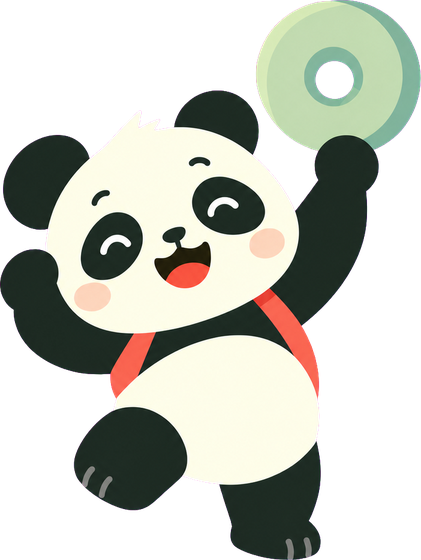
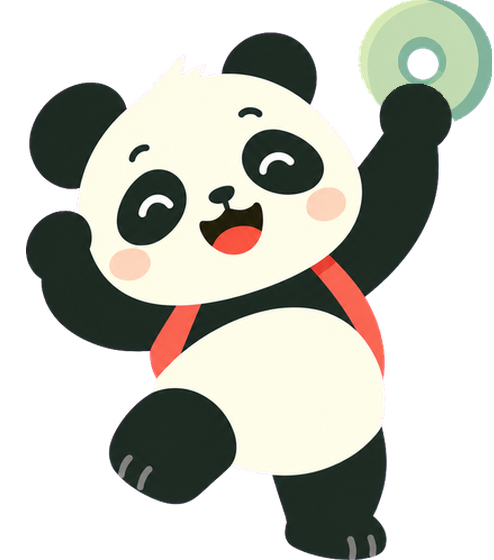
Profile: a lost streak reads 0 days, no lantern button; Flawless's panda sized up to match

diff --git a/native/Bubu/Views/Profile.swift b/native/Bubu/Views/Profile.swift
@@ -31,12 +31,6 @@ struct ProfileView: View {
                 you(lv)
                 invite(lv)
                 overview(out: out)
-                if out != nil {
-                    Button(progress.embers < 1 ? "No spare lanterns left" : "Use a spare lantern") {
-                        if let o = out { Moments.shared.show(.askRelight(lost: o.lost, embers: progress.embers)) }
-                    }
-                    .buttonStyle(WideButton()).disabled(progress.embers < 1)
-                }
                 achievements
                 activityRow
                 Color.clear.frame(height: 90)
@@ -126,11 +120,11 @@ struct ProfileView: View {
     private func overview(out: (date: String, lost: Int)?) -> some View {
         let learned = course.cards.filter { (progress.srs[$0.id]?.reps ?? 0) >= 1 }.count
         let lit = out == nil && progress.streak > 0
-        let days = out?.lost ?? progress.streak
+        let days = progress.streak
         return VStack(alignment: .leading, spacing: 12) {
             heading("Overview")
             LazyVGrid(columns: [GridItem(.flexible(), spacing: 10, alignment: .leading), GridItem(.flexible(), alignment: .leading)], alignment: .leading, spacing: 14) {
-                stat("\(days) day\(days == 1 ? "" : "s")\(out != nil ? " (out)" : "")", icon: lit ? "chip-lantern-lit" : "chip-lantern-unlit")
+                stat(out != nil ? "Lantern out" : "\(days) day\(days == 1 ? "" : "s")", icon: lit ? "chip-lantern-lit" : "chip-lantern-unlit")
                 stat("\(progress.xpTotal.formatted()) XP", icon: "stat-xp")
                 Button { router.push(.chars) } label: { stat("\(progress.charsKnown) characters", icon: "stat-chars") }.buttonStyle(CardPress())
                 stat("\(learned) words", icon: "stat-words")

diff --git a/tools/art/fix_flawless.py b/tools/art/fix_flawless.py
@@ -1,0 +1,69 @@
+"""Flawless's panda was drawn smaller than the other badges': the jade disc above his paw took the top of the picture,
+so fitting it to 560 tall shrank him (the owner: "Flawless is smaller than the others"). This lifts the disc off, scales
+him up until he alone fills the 560, and sets the disc back behind his raised paw, lower, so it stays inside the picture.
+
+    python fix_flawless.py   (keeps the picture as it was in out/final/achv4-flawless-small.png, and works from that)
+"""
+import os
+import numpy as np
+from PIL import Image
+from scipy import ndimage
+
+HERE = os.path.dirname(os.path.abspath(__file__))
+SRC = os.path.join(HERE, "out", "final", "achv4-flawless-small.png")
+DST = os.path.join(HERE, "..", "..", "native", "Bubu", "Resources", "Achievements", "achv-flawless.png")
+DISC_SIZE = 135      # across, in the finished picture
+TUCK = 0.72          # how much of the disc's height sits above the top of his paw
+HIM = 528            # his height in the 560 (the disc takes what's left, clear of his ear)
+
+
+def main():
+    if not os.path.exists(SRC):
+        Image.open(DST).convert("RGBA").save(SRC)
+    im = Image.open(SRC).convert("RGBA")
+    a = np.asarray(im).astype(int)
+    r, g, b, al = (a[..., i] for i in range(4))
+    # the disc: its greens, joined up, the largest piece (the shadow side and rim are green too)
+    green = (al > 0) & (g > r + 8) & (g > 110)
+    lab, k = ndimage.label(ndimage.binary_closing(green, iterations=2))
+    disc = lab == (1 + int(np.argmax(ndimage.sum(green, lab, range(1, k + 1)))))
+    disc = ndimage.binary_fill_holes(disc)
+    ys, xs = np.nonzero(disc)
+    box = (int(xs.min()), int(ys.min()), int(xs.max()) + 1, int(ys.max()) + 1)
+    dark = (r + g + b) < 200
+    lift = disc & ~dark
+    # the disc alone (its hole keeps whatever the picture has there), and him alone
+    keep = np.asarray(im).copy(); keep[..., 3] = np.where(lift, keep[..., 3], 0)
+    disc_pic = Image.fromarray(keep.astype("uint8")).crop(box)
+    him = np.asarray(im).copy(); him[..., 3] = np.where(ndimage.binary_dilation(lift, iterations=2) & ~dark, 0, him[..., 3])
+    him = Image.fromarray(him.astype("uint8"))
+    lab, k = ndimage.label(np.asarray(him)[..., 3] > 30)
+    main_piece = lab == (1 + int(np.argmax(ndimage.sum(np.ones_like(lab), lab, range(1, k + 1)))))
+    arr = np.asarray(him).copy(); arr[..., 3] = np.where(main_piece, arr[..., 3], 0); him = Image.fromarray(arr)
+    hb = him.getchannel("A").point(lambda v: 255 if v > 30 else 0).getbbox()
+    him = him.crop(hb)
+    s = HIM / him.height
+    him = him.resize((round(him.width * s), HIM), Image.LANCZOS)
+    # the paw: the highest dark pixels at his right edge (further in, it's his ear)
+    m = np.asarray(him); dk = (m[..., 3] > 128) & (m[..., :3].sum(2) < 200)
+    half = him.width * 4 // 5
+    py = int(np.nonzero(dk[:, half:].sum(1))[0].min())
+    row = np.nonzero(dk[py + 12, half:])[0] + half
+    px = int(row.mean())
+    d = DISC_SIZE
+    disc_pic = disc_pic.resize((d, round(disc_pic.height * d / disc_pic.width)), Image.LANCZOS)
+    dx, dy = px - d // 2 + 10, py + 560 - HIM - round(disc_pic.height * TUCK)
+    dy = max(0, dy)
+    # the canvas, his belly in the middle, so he stands on the coin's centre
+    belly = int(np.nonzero((m[..., 3] > 128)[HIM * 11 // 14])[0].mean())
+    half_w = max(belly, him.width - belly, dx + d - belly) + 2
+    out = Image.new("RGBA", (2 * half_w, 560), (0, 0, 0, 0))
+    ox = half_w - belly
+    out.alpha_composite(disc_pic, (ox + dx, dy))
+    out.alpha_composite(him, (ox, 560 - HIM))
+    out.save(DST)
+    print("him", hb, "scale", round(s, 3), "disc", box, "->", (ox + dx, dy), "size", out.size)
+
+
+if __name__ == "__main__":
+    main()
